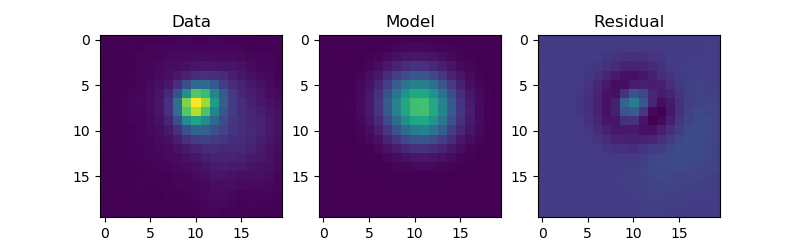
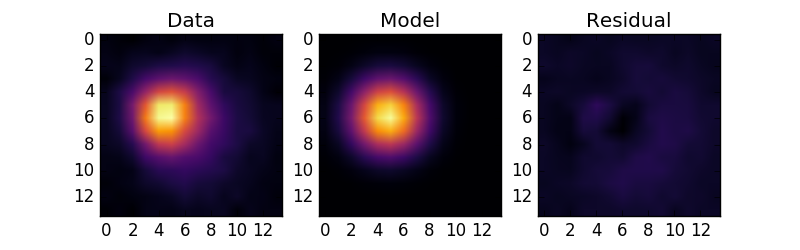
model with background, json output and moffat

diff --git a/gaussian2dfit.2.py b/gaussian2dfit.2.py
@@ -1,17 +1,12 @@
 #!/usr/bin/env python
 
-import sys, json
-import warnings
-
-import matplotlib.pyplot as plt
+import sys, json, warnings
 import numpy as np
-
-from astropy.modeling.models import Gaussian2D
+import matplotlib.pyplot as plt
 from astropy.modeling import models, fitting
 from astropy.io import fits
 
-# Caricare il JSON in input
-# python3.6 gaussian2dfit.2.py '"{ \"filename\":\"./gaussian2d_example.fits\",  \"x\":682, \"y\":410, \"box\":10 }\"'
+# python3 gaussian2dfit.2.py '"{ \"filename\":\"./gaussian2d_example.fits\",  \"x\":682, \"y\":410, \"box\":10 }\"'
 try:
     inputjson = json.loads(sys.argv[1])
 except:
@@ -19,53 +14,42 @@ except:
     sys.exit(1)
     
 # Mettere tutto il JSON in un oggetto Python per poter trattare i dati come credi    
-class Payload(object):
+class input_parameters(object):
     def __init__(self, inputjson):
         self.__dict__ = json.loads(inputjson)
 
 # Ecco i dati in un comodo oggetto        
-p = Payload(inputjson)
+p = input_parameters(inputjson)
 
 # Immagine vera
 hdus=fits.open(p.filename)
-ima1=hdus[0].data[p.y-p.box:p.y+p.box, p.x-p.box:p.x+p.box]
+ima=hdus[0].data[p.y-p.box:p.y+p.box, p.x-p.box:p.x+p.box]
 
-# Modello con stima iniziale dei parametri
-f_init=Gaussian2D(amplitude=15000, x_mean=p.x, y_mean=p.y, x_stddev=2, y_stddev=1, theta=0.2 )
+# Modello con stima iniziale dei parametri (alcuni nel json di input, altri no per pigrizia)
+#f_init=models.Moffat2D(amplitude=4200, x_0=p.x, y_0=p.y, gamma=6, alpha=1 )
+f_init=models.Gaussian2D(amplitude=4200, x_mean=p.x, y_mean=p.y, x_stddev=6, y_stddev=6, theta=0.2 )
 y,x = np.mgrid[ p.y-p.box:p.y+p.box, p.x-p.box:p.x+p.box ]
 
-ima2=f_init(x,y)
-
-# fitter: Levenberg-Marquardt 
+# Inizializzo il fitter: Levenberg-Marquardt 
 fit_g = fitting.LevMarLSQFitter()
 
 # Faccio il fit
 with warnings.catch_warnings():
     # Ignore model linearity warning from the fitter
     warnings.simplefilter('ignore')
-    f_fit = fit_g(f_init, x, y, ima1)
-
-# print results
-print ("IN:")
-print (f_init)
-print ("OUT:")
-print (f_fit)
+    f_fit = fit_g(f_init, x, y, ima)
     
 plt.figure(figsize=(8, 2.5))
-plt.subplot(1, 3, 1)
-plt.imshow(ima1, vmax=12000)
+plt.inferno()
+plt.subplot(1,3,1).imshow(ima,               vmax=f_fit.amplitude.value)
 plt.title("Data")
-plt.subplot(1, 3, 2)
-plt.imshow(f_fit(x, y), vmax=12000)
+plt.subplot(1,3,2).imshow(      f_fit(x, y), vmax=f_fit.amplitude.value)
 plt.title("Model")
-plt.subplot(1, 3, 3)
-plt.imshow(ima1 - f_fit(x, y) , vmax=12000)
+plt.subplot(1,3,3).imshow(ima - f_fit(x, y), vmax=f_fit.amplitude.value)
 plt.title("Residual")
 
 plt.savefig("all.png")
 
-# # Serializza in json e rispedisci il risultato al PHP
-# #print (json.dumps(f_fit))
-
-# print(f_fit.param_names)
-# print(f_fit.parameters)
+# Serializza in json e mostra il risultato
+outputjson=dict(zip(f_fit.param_names, f_fit.parameters))
+print (json.dumps(outputjson))

diff --git a/gaussian2dfit.3.py b/gaussian2dfit.3.py
@@ -1,0 +1,54 @@
+#!/usr/bin/env python
+
+import sys, json, warnings
+import numpy as np
+import matplotlib.pyplot as plt
+from astropy.modeling import models, fitting
+from astropy.io import fits
+
+# python3 gaussian2dfit.2.py '"{ \"filename\":\"./gaussian2d_example.fits\",  \"x\":682, \"y\":410, \"box\":10 }\"'
+try:
+    inputjson = json.loads(sys.argv[1])
+except:
+    print ("ERROR: no data or bad data format provided")
+    sys.exit(1)
+
+class input_parameters(object):      # Mettere tutto il JSON in un oggetto Python
+    def __init__(self, inputjson):
+        self.__dict__ = json.loads(inputjson)
+
+p = input_parameters(inputjson)      # Ecco i dati in un comodo oggetto
+
+# Immagine vera
+hdus=fits.open(p.filename)           
+ima=hdus[0].data[p.y-p.box//2:p.y+p.box//2, p.x-p.box//2:p.x+p.box//2]
+
+# Modello e stima iniziale (alcuni nel json di input, altri no per pigrizia)
+bell=models.Gaussian2D(amplitude=1200, x_mean=p.x, y_mean=p.y, x_stddev=6, y_stddev=6, theta=0.3 )
+back = models.Polynomial2D(degree=0) # Altro modello per il fondo (una costante)
+
+f_init = bell+back # Sommo bellamente i due modelli (vedere compound model nella pagina pyastropd)
+
+# # Per il futuro: un modello migliore per le PSF (la gaussiana bivariata fa schifo)
+# f_init=models.Moffat2D(amplitude=4200, x_0=p.x, y_0=p.y, gamma=6, alpha=1 )
+
+fit_g = fitting.LevMarLSQFitter()    # Inizializzo il fitter: Levenberg-Marquardt
+
+y,x = np.mgrid[ p.y-p.box//2:p.y+p.box//2, p.x-p.box//2:p.x+p.box//2 ]
+with warnings.catch_warnings():      # Faccio il fit
+    warnings.simplefilter('ignore')  # Ignore model linearity warning from the fitter
+    f_fit = fit_g(f_init, x, y, ima)
+
+plt.figure(figsize=(8, 2.5))
+plt.inferno()
+plt.subplot(1,3,1).imshow(ima,               vmax=ima.max())
+plt.title("Data")
+plt.subplot(1,3,2).imshow(      f_fit(x, y), vmax=ima.max())
+plt.title("Model")
+plt.subplot(1,3,3).imshow(ima - f_fit(x, y), vmax=ima.max())
+plt.title("Residual")
+
+plt.savefig("all.png")
+
+outputjson=dict(zip(f_fit.param_names, f_fit.parameters)) # Serializza in risultato...
+print (json.dumps(outputjson, sort_keys=True, indent=2))  # ...e mostralo in un json leggibile

diff --git a/gaussian2dfit.py b/gaussian2dfit.py
@@ -1,10 +1,8 @@
 import numpy as np
-import pandas as pd
 from sys import argv
 from astropy.io import fits
 from scipy.optimize import leastsq
 import matplotlib.pyplot as plt
-
 
 def gaussian(amplitude, center_x, center_y, sigma_x, sigma_y, deg, offset):
     """Returns a gaussian function with the given parameters"""
@@ -38,11 +36,9 @@ def fitgaussian(data, shift):
     """Returns (height, x, y, width_x, width_y)
     the gaussian parameters of a 2D distribution found by a fit"""
     params = moments(data)
-    errorfunction = lambda p: np.ravel(gaussian(*p)(*np.indices(data.shape)) -
-                                 data)
+    errorfunction = lambda p: np.ravel(gaussian(*p)(*np.indices(data.shape)) - data)
     p, success = leastsq(errorfunction, params)
     return p
-
 
 def main(argv):
 
@@ -53,13 +49,13 @@ def main(argv):
     plt.show()
     plt.close()
 
-    posy = input("enter x you see on the plot: ")
-    posx = input("enter y you see on the plot: ")
-    box = input("enter box edge: ")
+    posy = int(input("enter x you see on the plot: "))
+    posx = int(input("enter y you see on the plot: "))
+    box = int(input("enter box edge: "))
 
     fitsfile.close()
 
-    if box > posx or box > posy or box < 1 or posx < 1 or posy < 1:
+    if (box > posx) or (box > posy) or (box < 1) or (posx < 1) or (posy < 1):
         raise ValueError("input error")
 
     x, y = np.mgrid[0:box, 0:box]
@@ -83,7 +79,6 @@ def main(argv):
             dictionary[p] = params[idxp]
             
     print(dictionary)
-
 
 if __name__ == '__main__':
     main(argv)
